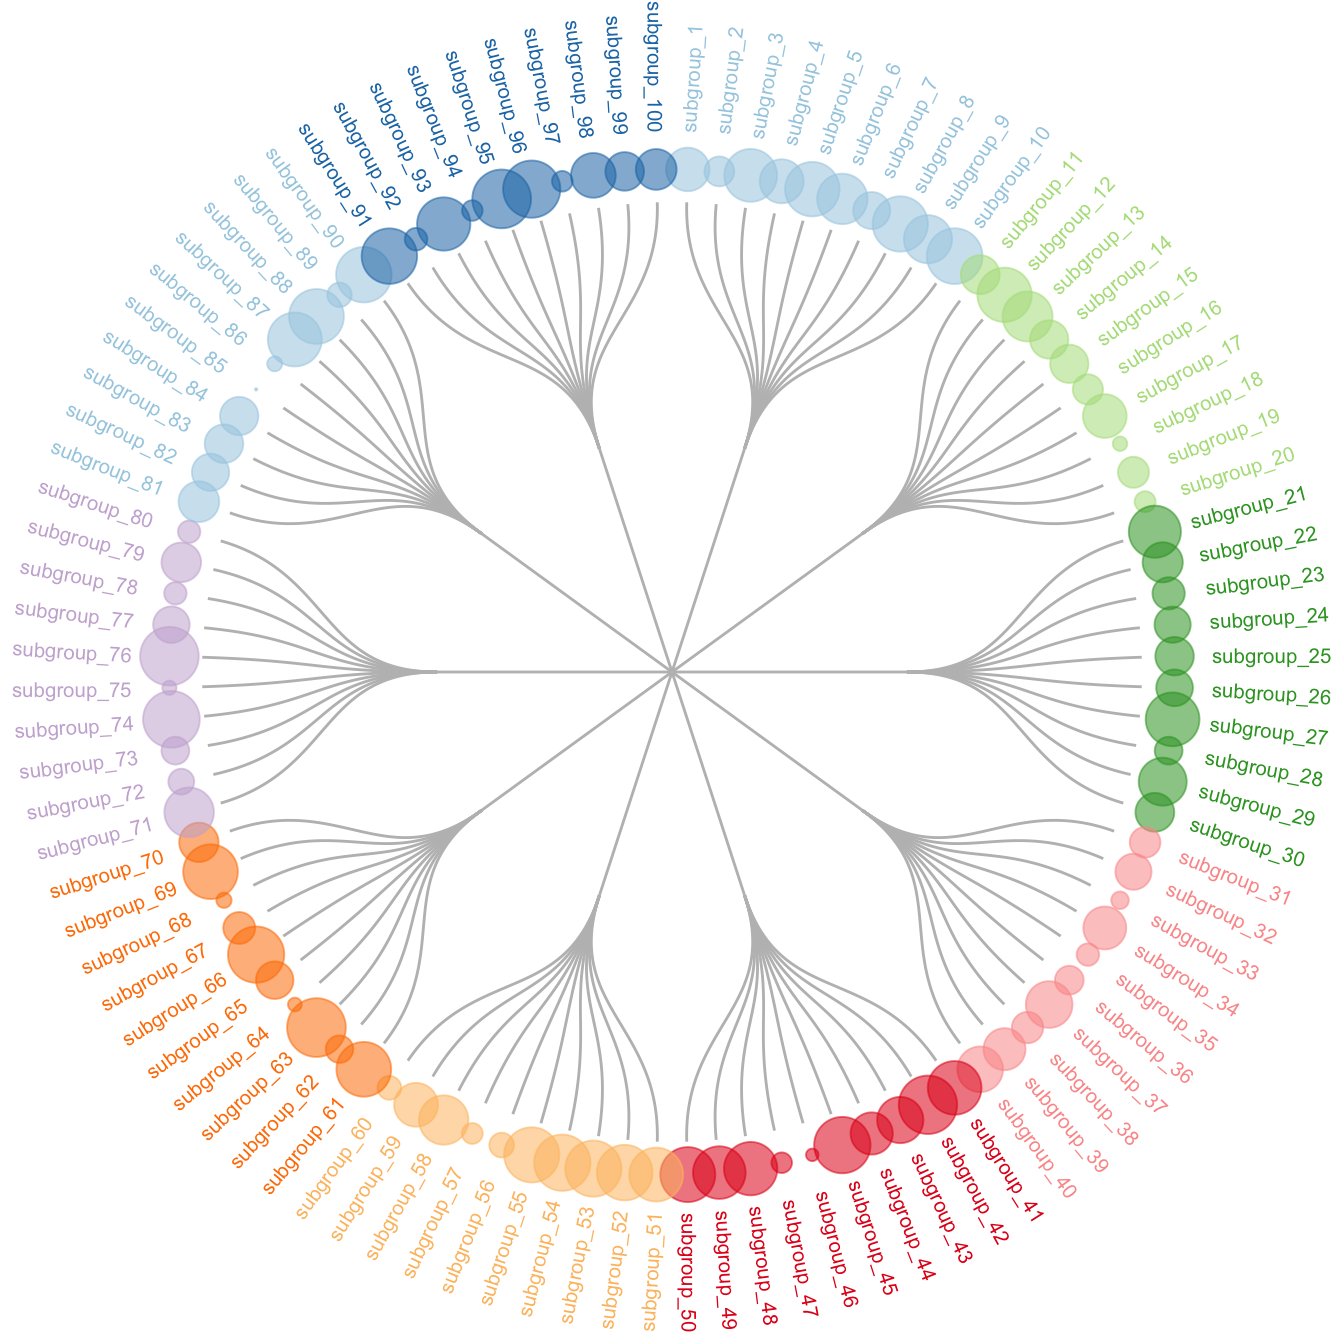
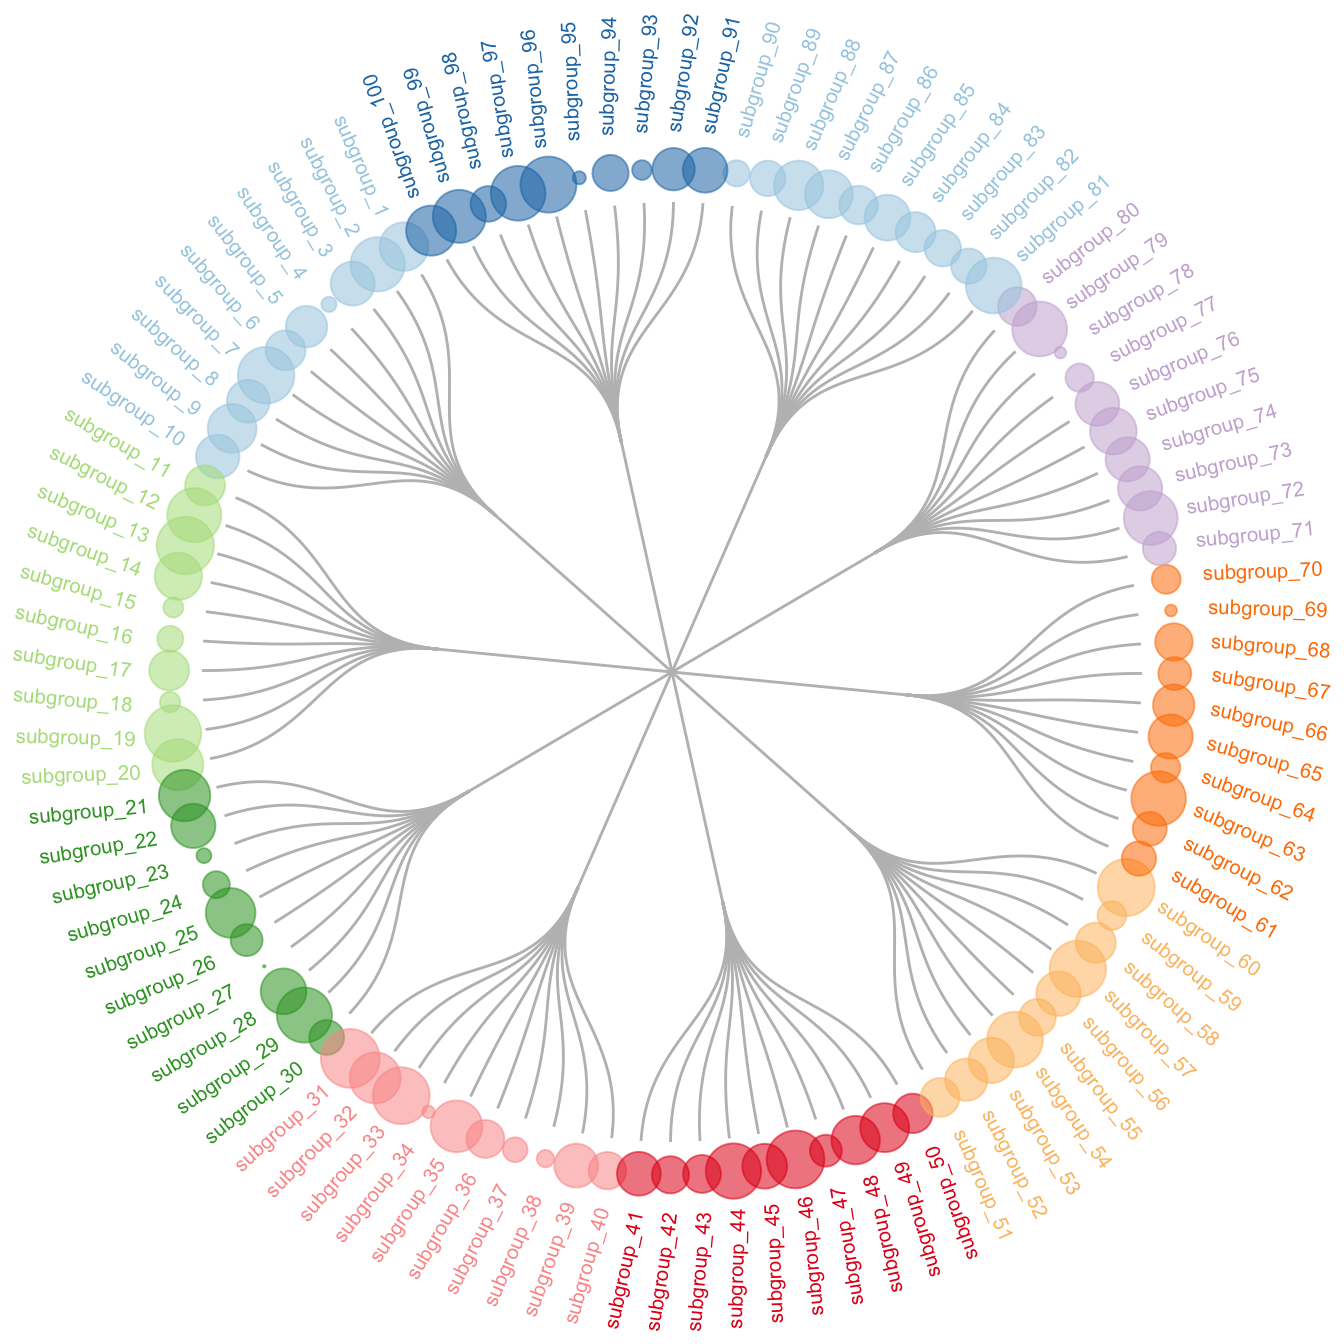
update angles and hjust of vertices

diff --git a/339-circular-dendrogram-with-ggraph.html b/339-circular-dendrogram-with-ggraph.html
@@ -162,57 +162,58 @@
 <p><img src="339-circular-dendrogram-with-ggraph_files/figure-html/thecode8-1.png" width="100%" /></p>
 </div>
 </div>
-<div class="sourceCode" id="cb1"><pre class="sourceCode r"><code class="sourceCode r"><a class="sourceLine" id="cb1-1" data-line-number="1"><span class="co"># Libraries</span></a>
-<a class="sourceLine" id="cb1-2" data-line-number="2"><span class="kw">library</span>(ggraph)</a>
-<a class="sourceLine" id="cb1-3" data-line-number="3"><span class="kw">library</span>(igraph)</a>
-<a class="sourceLine" id="cb1-4" data-line-number="4"><span class="kw">library</span>(tidyverse)</a>
-<a class="sourceLine" id="cb1-5" data-line-number="5"><span class="kw">library</span>(RColorBrewer) </a>
-<a class="sourceLine" id="cb1-6" data-line-number="6"><span class="co"># create a data frame giving the hierarchical structure of your individuals</span></a>
-<a class="sourceLine" id="cb1-7" data-line-number="7">d1=<span class="kw">data.frame</span>(<span class="dt">from=</span><span class="st">&quot;origin&quot;</span>, <span class="dt">to=</span><span class="kw">paste</span>(<span class="st">&quot;group&quot;</span>, <span class="kw">seq</span>(<span class="dv">1</span>,<span class="dv">10</span>), <span class="dt">sep=</span><span class="st">&quot;&quot;</span>))</a>
-<a class="sourceLine" id="cb1-8" data-line-number="8">d2=<span class="kw">data.frame</span>(<span class="dt">from=</span><span class="kw">rep</span>(d1<span class="op">$</span>to, <span class="dt">each=</span><span class="dv">10</span>), <span class="dt">to=</span><span class="kw">paste</span>(<span class="st">&quot;subgroup&quot;</span>, <span class="kw">seq</span>(<span class="dv">1</span>,<span class="dv">100</span>), <span class="dt">sep=</span><span class="st">&quot;_&quot;</span>))</a>
-<a class="sourceLine" id="cb1-9" data-line-number="9">edges=<span class="kw">rbind</span>(d1, d2)</a>
-<a class="sourceLine" id="cb1-10" data-line-number="10"> </a>
-<a class="sourceLine" id="cb1-11" data-line-number="11"><span class="co"># create a vertices data.frame. One line per object of our hierarchy</span></a>
-<a class="sourceLine" id="cb1-12" data-line-number="12">vertices =<span class="st"> </span><span class="kw">data.frame</span>(</a>
-<a class="sourceLine" id="cb1-13" data-line-number="13">  <span class="dt">name =</span> <span class="kw">unique</span>(<span class="kw">c</span>(<span class="kw">as.character</span>(edges<span class="op">$</span>from), <span class="kw">as.character</span>(edges<span class="op">$</span>to))) , </a>
-<a class="sourceLine" id="cb1-14" data-line-number="14">  <span class="dt">value =</span> <span class="kw">runif</span>(<span class="dv">111</span>)</a>
-<a class="sourceLine" id="cb1-15" data-line-number="15">) </a>
-<a class="sourceLine" id="cb1-16" data-line-number="16"><span class="co"># Let&#39;s add a column with the group of each name. It will be useful later to color points</span></a>
-<a class="sourceLine" id="cb1-17" data-line-number="17">vertices<span class="op">$</span>group =<span class="st"> </span>edges<span class="op">$</span>from[ <span class="kw">match</span>( vertices<span class="op">$</span>name, edges<span class="op">$</span>to ) ]</a>
-<a class="sourceLine" id="cb1-18" data-line-number="18"> </a>
-<a class="sourceLine" id="cb1-19" data-line-number="19"> </a>
-<a class="sourceLine" id="cb1-20" data-line-number="20"><span class="co">#Let&#39;s add information concerning the label we are going to add: angle, horizontal adjustement and potential flip</span></a>
-<a class="sourceLine" id="cb1-21" data-line-number="21"><span class="co">#calculate the ANGLE of the labels</span></a>
-<a class="sourceLine" id="cb1-22" data-line-number="22">vertices<span class="op">$</span>id=<span class="ot">NA</span></a>
-<a class="sourceLine" id="cb1-23" data-line-number="23">myleaves=<span class="kw">which</span>(<span class="kw">is.na</span>( <span class="kw">match</span>(vertices<span class="op">$</span>name, edges<span class="op">$</span>from) ))</a>
-<a class="sourceLine" id="cb1-24" data-line-number="24">nleaves=<span class="kw">length</span>(myleaves)</a>
-<a class="sourceLine" id="cb1-25" data-line-number="25">vertices<span class="op">$</span>id[ myleaves ] =<span class="st"> </span><span class="kw">seq</span>(<span class="dv">1</span><span class="op">:</span>nleaves)</a>
-<a class="sourceLine" id="cb1-26" data-line-number="26">vertices<span class="op">$</span>angle=<span class="st"> </span><span class="dv">90</span> <span class="op">-</span><span class="st"> </span><span class="dv">360</span> <span class="op">*</span><span class="st"> </span>vertices<span class="op">$</span>id <span class="op">/</span><span class="st"> </span>nleaves</a>
-<a class="sourceLine" id="cb1-27" data-line-number="27"> </a>
-<a class="sourceLine" id="cb1-28" data-line-number="28"><span class="co"># calculate the alignment of labels: right or left</span></a>
-<a class="sourceLine" id="cb1-29" data-line-number="29"><span class="co"># If I am on the left part of the plot, my labels have currently an angle &lt; -90</span></a>
-<a class="sourceLine" id="cb1-30" data-line-number="30">vertices<span class="op">$</span>hjust&lt;-<span class="kw">ifelse</span>( vertices<span class="op">$</span>angle <span class="op">&lt;</span><span class="st"> </span><span class="dv">-90</span>, <span class="dv">1</span>, <span class="dv">0</span>)</a>
-<a class="sourceLine" id="cb1-31" data-line-number="31"> </a>
-<a class="sourceLine" id="cb1-32" data-line-number="32"><span class="co"># flip angle BY to make them readable</span></a>
-<a class="sourceLine" id="cb1-33" data-line-number="33">vertices<span class="op">$</span>angle&lt;-<span class="kw">ifelse</span>(vertices<span class="op">$</span>angle <span class="op">&lt;</span><span class="st"> </span><span class="dv">-90</span>, vertices<span class="op">$</span>angle<span class="op">+</span><span class="dv">180</span>, vertices<span class="op">$</span>angle)</a>
-<a class="sourceLine" id="cb1-34" data-line-number="34"> </a>
-<a class="sourceLine" id="cb1-35" data-line-number="35"><span class="co"># Create a graph object</span></a>
-<a class="sourceLine" id="cb1-36" data-line-number="36">mygraph &lt;-<span class="st"> </span><span class="kw">graph_from_data_frame</span>( edges, <span class="dt">vertices=</span>vertices )</a>
-<a class="sourceLine" id="cb1-37" data-line-number="37"> </a>
-<a class="sourceLine" id="cb1-38" data-line-number="38"><span class="co"># Make the plot</span></a>
-<a class="sourceLine" id="cb1-39" data-line-number="39"><span class="kw">ggraph</span>(mygraph, <span class="dt">layout =</span> <span class="st">&#39;dendrogram&#39;</span>, <span class="dt">circular =</span> <span class="ot">TRUE</span>) <span class="op">+</span><span class="st"> </span></a>
-<a class="sourceLine" id="cb1-40" data-line-number="40"><span class="st">  </span><span class="kw">geom_edge_diagonal</span>(<span class="dt">colour=</span><span class="st">&quot;grey&quot;</span>) <span class="op">+</span></a>
-<a class="sourceLine" id="cb1-41" data-line-number="41"><span class="st">  </span><span class="kw">scale_edge_colour_distiller</span>(<span class="dt">palette =</span> <span class="st">&quot;RdPu&quot;</span>) <span class="op">+</span></a>
-<a class="sourceLine" id="cb1-42" data-line-number="42"><span class="st">  </span><span class="kw">geom_node_text</span>(<span class="kw">aes</span>(<span class="dt">x =</span> x<span class="op">*</span><span class="fl">1.15</span>, <span class="dt">y=</span>y<span class="op">*</span><span class="fl">1.15</span>, <span class="dt">filter =</span> leaf, <span class="dt">label=</span>name, <span class="dt">angle =</span> angle, <span class="dt">hjust=</span>hjust, <span class="dt">colour=</span>group), <span class="dt">size=</span><span class="fl">2.7</span>, <span class="dt">alpha=</span><span class="dv">1</span>) <span class="op">+</span></a>
-<a class="sourceLine" id="cb1-43" data-line-number="43"><span class="st">  </span><span class="kw">geom_node_point</span>(<span class="kw">aes</span>(<span class="dt">filter =</span> leaf, <span class="dt">x =</span> x<span class="op">*</span><span class="fl">1.07</span>, <span class="dt">y=</span>y<span class="op">*</span><span class="fl">1.07</span>, <span class="dt">colour=</span>group, <span class="dt">size=</span>value, <span class="dt">alpha=</span><span class="fl">0.2</span>)) <span class="op">+</span></a>
-<a class="sourceLine" id="cb1-44" data-line-number="44"><span class="st">  </span><span class="kw">scale_colour_manual</span>(<span class="dt">values=</span> <span class="kw">rep</span>( <span class="kw">brewer.pal</span>(<span class="dv">9</span>,<span class="st">&quot;Paired&quot;</span>) , <span class="dv">30</span>)) <span class="op">+</span></a>
-<a class="sourceLine" id="cb1-45" data-line-number="45"><span class="st">  </span><span class="kw">scale_size_continuous</span>( <span class="dt">range =</span> <span class="kw">c</span>(<span class="fl">0.1</span>,<span class="dv">10</span>) ) <span class="op">+</span></a>
-<a class="sourceLine" id="cb1-46" data-line-number="46"><span class="st">  </span><span class="kw">theme_void</span>() <span class="op">+</span></a>
-<a class="sourceLine" id="cb1-47" data-line-number="47"><span class="st">  </span><span class="kw">theme</span>(</a>
-<a class="sourceLine" id="cb1-48" data-line-number="48">    <span class="dt">legend.position=</span><span class="st">&quot;none&quot;</span>,</a>
-<a class="sourceLine" id="cb1-49" data-line-number="49">    <span class="dt">plot.margin=</span><span class="kw">unit</span>(<span class="kw">c</span>(<span class="dv">0</span>,<span class="dv">0</span>,<span class="dv">0</span>,<span class="dv">0</span>),<span class="st">&quot;cm&quot;</span>),</a>
-<a class="sourceLine" id="cb1-50" data-line-number="50">  ) <span class="op">+</span></a>
-<a class="sourceLine" id="cb1-51" data-line-number="51"><span class="st">  </span><span class="kw">expand_limits</span>(<span class="dt">x =</span> <span class="kw">c</span>(<span class="op">-</span><span class="fl">1.3</span>, <span class="fl">1.3</span>), <span class="dt">y =</span> <span class="kw">c</span>(<span class="op">-</span><span class="fl">1.3</span>, <span class="fl">1.3</span>))</a></code></pre></div>
+<div class="sourceCode" id="cb1"><pre class="sourceCode r"><code class="sourceCode r"><span id="cb1-1"><a href="#cb1-1"></a><span class="co"># Libraries</span></span>
+<span id="cb1-2"><a href="#cb1-2"></a><span class="kw">library</span>(ggraph)</span>
+<span id="cb1-3"><a href="#cb1-3"></a><span class="kw">library</span>(igraph)</span>
+<span id="cb1-4"><a href="#cb1-4"></a><span class="kw">library</span>(tidyverse)</span>
+<span id="cb1-5"><a href="#cb1-5"></a><span class="kw">library</span>(RColorBrewer) </span>
+<span id="cb1-6"><a href="#cb1-6"></a><span class="co"># create a data frame giving the hierarchical structure of your individuals</span></span>
+<span id="cb1-7"><a href="#cb1-7"></a>d1=<span class="kw">data.frame</span>(<span class="dt">from=</span><span class="st">&quot;origin&quot;</span>, <span class="dt">to=</span><span class="kw">paste</span>(<span class="st">&quot;group&quot;</span>, <span class="kw">seq</span>(<span class="dv">1</span>,<span class="dv">10</span>), <span class="dt">sep=</span><span class="st">&quot;&quot;</span>))</span>
+<span id="cb1-8"><a href="#cb1-8"></a>d2=<span class="kw">data.frame</span>(<span class="dt">from=</span><span class="kw">rep</span>(d1<span class="op">$</span>to, <span class="dt">each=</span><span class="dv">10</span>), <span class="dt">to=</span><span class="kw">paste</span>(<span class="st">&quot;subgroup&quot;</span>, <span class="kw">seq</span>(<span class="dv">1</span>,<span class="dv">100</span>), <span class="dt">sep=</span><span class="st">&quot;_&quot;</span>))</span>
+<span id="cb1-9"><a href="#cb1-9"></a>edges=<span class="kw">rbind</span>(d1, d2)</span>
+<span id="cb1-10"><a href="#cb1-10"></a> </span>
+<span id="cb1-11"><a href="#cb1-11"></a><span class="co"># create a vertices data.frame. One line per object of our hierarchy</span></span>
+<span id="cb1-12"><a href="#cb1-12"></a>vertices =<span class="st"> </span><span class="kw">data.frame</span>(</span>
+<span id="cb1-13"><a href="#cb1-13"></a>  <span class="dt">name =</span> <span class="kw">unique</span>(<span class="kw">c</span>(<span class="kw">as.character</span>(edges<span class="op">$</span>from), <span class="kw">as.character</span>(edges<span class="op">$</span>to))) , </span>
+<span id="cb1-14"><a href="#cb1-14"></a>  <span class="dt">value =</span> <span class="kw">runif</span>(<span class="dv">111</span>)</span>
+<span id="cb1-15"><a href="#cb1-15"></a>) </span>
+<span id="cb1-16"><a href="#cb1-16"></a><span class="co"># Let&#39;s add a column with the group of each name. It will be useful later to color points</span></span>
+<span id="cb1-17"><a href="#cb1-17"></a>vertices<span class="op">$</span>group =<span class="st"> </span>edges<span class="op">$</span>from[ <span class="kw">match</span>( vertices<span class="op">$</span>name, edges<span class="op">$</span>to ) ]</span>
+<span id="cb1-18"><a href="#cb1-18"></a> </span>
+<span id="cb1-19"><a href="#cb1-19"></a> </span>
+<span id="cb1-20"><a href="#cb1-20"></a><span class="co">#Let&#39;s add information concerning the label we are going to add: angle, horizontal adjustement and potential flip</span></span>
+<span id="cb1-21"><a href="#cb1-21"></a><span class="co">#calculate the ANGLE of the labels</span></span>
+<span id="cb1-22"><a href="#cb1-22"></a>vertices<span class="op">$</span>id=<span class="ot">NA</span></span>
+<span id="cb1-23"><a href="#cb1-23"></a>myleaves=<span class="kw">which</span>(<span class="kw">is.na</span>( <span class="kw">match</span>(vertices<span class="op">$</span>name, edges<span class="op">$</span>from) ))</span>
+<span id="cb1-24"><a href="#cb1-24"></a>nleaves=<span class="kw">length</span>(myleaves)</span>
+<span id="cb1-25"><a href="#cb1-25"></a>vertices<span class="op">$</span>id[ myleaves ] =<span class="st"> </span><span class="kw">seq</span>(<span class="dv">1</span><span class="op">:</span>nleaves)</span>
+<span id="cb1-26"><a href="#cb1-26"></a>vertices<span class="op">$</span>angle =<span class="st"> </span><span class="dv">360</span> <span class="op">/</span><span class="st"> </span>nleaves <span class="op">*</span><span class="st"> </span>vertices<span class="op">$</span>id <span class="op">+</span><span class="st"> </span><span class="dv">110</span></span>
+<span id="cb1-27"><a href="#cb1-27"></a> </span>
+<span id="cb1-28"><a href="#cb1-28"></a><span class="co"># calculate the alignment of labels: right or left</span></span>
+<span id="cb1-29"><a href="#cb1-29"></a><span class="co"># If I am on the left part of the plot, my labels have currently an angle &lt; -90</span></span>
+<span id="cb1-30"><a href="#cb1-30"></a>vertices<span class="op">$</span>hjust&lt;-<span class="kw">ifelse</span>( vertices<span class="op">$</span>angle <span class="op">&lt;</span><span class="st"> </span><span class="dv">291</span>, <span class="dv">1</span>, <span class="dv">0</span>)</span>
+<span id="cb1-31"><a href="#cb1-31"></a> </span>
+<span id="cb1-32"><a href="#cb1-32"></a><span class="co"># flip angle BY to make them readable</span></span>
+<span id="cb1-33"><a href="#cb1-33"></a>vertices<span class="op">$</span>angle&lt;-<span class="kw">ifelse</span>(vertices<span class="op">$</span>angle <span class="op">&lt;</span><span class="st"> </span><span class="dv">291</span>, vertices<span class="op">$</span>angle<span class="op">+</span><span class="dv">180</span>, vertices<span class="op">$</span>angle)</span>
+<span id="cb1-34"><a href="#cb1-34"></a> </span>
+<span id="cb1-35"><a href="#cb1-35"></a><span class="co"># Create a graph object</span></span>
+<span id="cb1-36"><a href="#cb1-36"></a>mygraph &lt;-<span class="st"> </span><span class="kw">graph_from_data_frame</span>( edges, <span class="dt">vertices=</span>vertices )</span>
+<span id="cb1-37"><a href="#cb1-37"></a> </span>
+<span id="cb1-38"><a href="#cb1-38"></a><span class="co"># Make the plot</span></span>
+<span id="cb1-39"><a href="#cb1-39"></a><span class="kw">ggraph</span>(mygraph, <span class="dt">layout =</span> <span class="st">&#39;dendrogram&#39;</span>, <span class="dt">circular =</span> <span class="ot">TRUE</span>) <span class="op">+</span><span class="st"> </span></span>
+<span id="cb1-40"><a href="#cb1-40"></a><span class="st">  </span><span class="kw">geom_edge_diagonal</span>(<span class="dt">colour=</span><span class="st">&quot;grey&quot;</span>) <span class="op">+</span></span>
+<span id="cb1-41"><a href="#cb1-41"></a><span class="st">  </span><span class="kw">scale_edge_colour_distiller</span>(<span class="dt">palette =</span> <span class="st">&quot;RdPu&quot;</span>) <span class="op">+</span></span>
+<span id="cb1-42"><a href="#cb1-42"></a><span class="st">  </span><span class="kw">geom_node_text</span>(<span class="kw">aes</span>(<span class="dt">x =</span> x<span class="op">*</span><span class="fl">1.15</span>, <span class="dt">y=</span>y<span class="op">*</span><span class="fl">1.15</span>, <span class="dt">filter =</span> leaf, <span class="dt">label=</span>name, <span class="dt">angle =</span> angle, <span class="dt">hjust=</span>hjust, <span class="dt">colour=</span>group), <span class="dt">size=</span><span class="fl">2.7</span>, <span class="dt">alpha=</span><span class="dv">1</span>) <span class="op">+</span></span>
+<span id="cb1-43"><a href="#cb1-43"></a><span class="st">  </span><span class="kw">geom_node_point</span>(<span class="kw">aes</span>(<span class="dt">filter =</span> leaf, <span class="dt">x =</span> x<span class="op">*</span><span class="fl">1.07</span>, <span class="dt">y=</span>y<span class="op">*</span><span class="fl">1.07</span>, <span class="dt">colour=</span>group, <span class="dt">size=</span>value, <span class="dt">alpha=</span><span class="fl">0.2</span>)) <span class="op">+</span></span>
+<span id="cb1-44"><a href="#cb1-44"></a><span class="st">  </span><span class="kw">scale_colour_manual</span>(<span class="dt">values=</span> <span class="kw">rep</span>( <span class="kw">brewer.pal</span>(<span class="dv">9</span>,<span class="st">&quot;Paired&quot;</span>) , <span class="dv">30</span>)) <span class="op">+</span></span>
+<span id="cb1-45"><a href="#cb1-45"></a><span class="st">  </span><span class="kw">scale_size_continuous</span>( <span class="dt">range =</span> <span class="kw">c</span>(<span class="fl">0.1</span>,<span class="dv">10</span>) ) <span class="op">+</span></span>
+<span id="cb1-46"><a href="#cb1-46"></a><span class="st">  </span><span class="kw">theme_void</span>() <span class="op">+</span></span>
+<span id="cb1-47"><a href="#cb1-47"></a><span class="st">  </span><span class="kw">theme</span>(</span>
+<span id="cb1-48"><a href="#cb1-48"></a>    <span class="dt">legend.position=</span><span class="st">&quot;none&quot;</span>,</span>
+<span id="cb1-49"><a href="#cb1-49"></a>    <span class="dt">plot.margin=</span><span class="kw">unit</span>(<span class="kw">c</span>(<span class="dv">0</span>,<span class="dv">0</span>,<span class="dv">0</span>,<span class="dv">0</span>),<span class="st">&quot;cm&quot;</span>),</span>
+<span id="cb1-50"><a href="#cb1-50"></a>  ) <span class="op">+</span></span>
+<span id="cb1-51"><a href="#cb1-51"></a><span class="st">  </span><span class="kw">expand_limits</span>(<span class="dt">x =</span> <span class="kw">c</span>(<span class="op">-</span><span class="fl">1.3</span>, <span class="fl">1.3</span>), <span class="dt">y =</span> <span class="kw">c</span>(<span class="op">-</span><span class="fl">1.3</span>, <span class="fl">1.3</span>)) <span class="op">+</span></span>
+<span id="cb1-52"><a href="#cb1-52"></a><span class="st">  </span><span class="kw">coord_flip</span>()</span></code></pre></div>
 <!-- Close container -->
 </div>
 <!-- ============================ RELATED SECTION ============================ -->

diff --git a/libs/navigation-1.1/codefolding.js b/libs/navigation-1.1/codefolding.js
@@ -17,13 +17,13 @@ window.initializeCodeFolding = function(show) {
   var currentIndex = 1;
 
   // select all R code blocks
-  var rCodeBlocks = $('pre.r, pre.python, pre.bash, pre.sql, pre.cpp, pre.stan, pre.julia');
+  var rCodeBlocks = $('pre.r, pre.python, pre.bash, pre.sql, pre.cpp, pre.stan, pre.julia, pre.foldable');
   rCodeBlocks.each(function() {
 
     // create a collapsable div to wrap the code in
     var div = $('<div class="collapse r-code-collapse"></div>');
-    if (show)
-      div.addClass('in');
+    show = (show || $(this).hasClass('fold-show')) && !$(this).hasClass('fold-hide');
+    if (show) div.addClass('in');
     var id = 'rcode-643E0F36' + currentIndex++;
     div.attr('id', id);
     $(this).before(div);

diff --git a/libs/tocify-1.9.1/jquery.tocify.css b/libs/tocify-1.9.1/jquery.tocify.css
@@ -11,8 +11,6 @@
     margin-left: 2%;
     position: fixed;
     border: 1px solid #ccc;
-    webkit-border-radius: 6px;
-    moz-border-radius: 6px;
     border-radius: 6px;
 }
 
@@ -45,10 +43,14 @@
 .tocify-subheader .tocify-subheader {
     text-indent: 30px;
 }
-
-/* Further indents third level subheader elements. You can continue this pattern if you have more nested elements. */
 .tocify-subheader .tocify-subheader .tocify-subheader {
     text-indent: 40px;
+}
+.tocify-subheader .tocify-subheader .tocify-subheader .tocify-subheader {
+    text-indent: 50px;
+}
+.tocify-subheader .tocify-subheader .tocify-subheader .tocify-subheader .tocify-subheader {
+    text-indent: 60px;
 }
 
 /* Twitter Bootstrap Override Style */

diff --git a/libs/accessible-code-block-0.0.1/empty-anchor.js b/libs/accessible-code-block-0.0.1/empty-anchor.js
@@ -1,0 +1,15 @@
+// Hide empty <a> tag within highlighted CodeBlock for screen reader accessibility (see https://github.com/jgm/pandoc/issues/6352#issuecomment-626106786) -->
+// v0.0.1
+// Written by JooYoung Seo (jooyoung@psu.edu) and Atsushi Yasumoto on June 1st, 2020.
+
+document.addEventListener('DOMContentLoaded', function() {
+  const codeList = document.getElementsByClassName("sourceCode");
+  for (var i = 0; i < codeList.length; i++) {
+    var linkList = codeList[i].getElementsByTagName('a');
+    for (var j = 0; j < linkList.length; j++) {
+      if (linkList[j].innerHTML === "") {
+        linkList[j].setAttribute('aria-hidden', 'true');
+      }
+    }
+  }
+});

diff --git a/libs/tocify-1.9.1/jquery.tocify.js b/libs/tocify-1.9.1/jquery.tocify.js
@@ -386,13 +386,13 @@
 
           item.append($("<a/>", {
 
-            "text": self.text()
+            "html": self.html()
 
           }));
 
         } else {
 
-          item.text(self.text());
+          item.html(self.html());
 
         }
 
